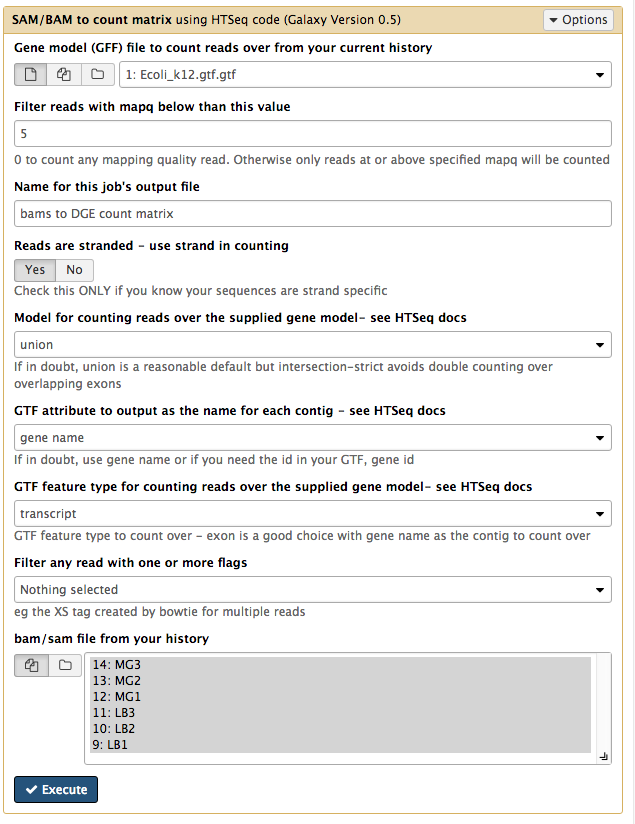
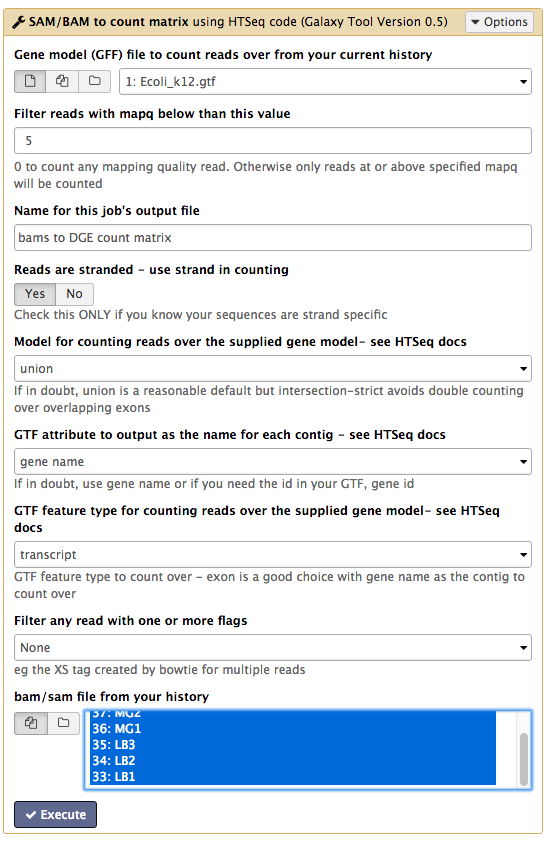
DGE changes

diff --git a/docs/modules/dge/index.md b/docs/modules/dge/index.md
@@ -23,31 +23,40 @@ At the end of this tutorial you should be able to:
 
 ## Input data: reads and reference
 
-We need RNA-Seq reads and a reference genome.
-
 **RNA-Seq reads**
 
-A typical experiment will have 2 conditions each with 3 replicates, for a total of 6 samples. Each sample will be a set of RNA sequence reads, either as one file per sample (single-end reads / SE) or two files (paired-end reads / PE).
+A typical experiment will have 2 conditions each with 3 replicates, for a total of 6 samples.
 
+- Our RNA-seq reads are from 6 samples in <fn>FASTQ</fn> format.
+    - We have single-end reads; so one file per sample.
+    - Data could also be paired-end reads, and there would be two files per sample.
+- These have been reduced to 1% of their original size for this tutorial.
+- The experiment used the bacteria *E. coli* grown in two conditions.
+    - Files labelled "LB" are the wildtype
+    - Files labelled "MG" have been exposed to 0.5% &alpha;MG - alpha methyglucoside (a sugar solution).
+
+
+
+
+
+<!--
 |             | Condition 1 | Condition 2 |
 |-------------|-------------|-------------|
 | Replicate 1 |     1       |      4      |
 | Replicate 2 |     2       |      5      |
 | Replicate 3 |     3       |      6      |
 
-Our RNA-seq reads are from 6 samples in <fn>FASTQ</fn> format. These have been reduced to 1% of their original size for this tutorial. The experiment used the bacteria *E. coli* grown in two conditions.
+-->
 
-- Files labelled "LB" are the wildtype
-- Files labelled "MG" have been exposed to 0.5% &alpha;MG - alpha methyglucoside (a sugar solution).
+
 
 
 **Reference genome**
 
-The reference genomes is in two parts: <fn>FASTA</fn> and <fn>GTF</fn> formats
+The reference genomes is in <fn>FASTA</fn> format and the gene annotations are in <fn>GTF</fn> format.
 
-The <fn>FASTA</fn> file contains the DNA sequence(s) that make up the genome; e.g. the chromosome and any plasmids.
-
-The <fn>GTF</fn> file lists the coordinates (position) of each feature. Commonly-annotated features are genes, transcripts and protein-coding sequences.
+- The <fn>FASTA</fn> file contains the DNA sequence(s) that make up the genome; e.g. the chromosome and any plasmids.
+- The <fn>GTF</fn> file lists the coordinates (position) of each feature. Commonly-annotated features are genes, transcripts and protein-coding sequences.
 
 <!--
 - Where is it and how to upload. e.g. [RNA-Seq data](/rna/data.md)
@@ -58,26 +67,31 @@ The <fn>GTF</fn> file lists the coordinates (position) of each feature. Commonly
 **Upload files to Galaxy**
 
 - Log in to your Galaxy server.
-- In the <ss>History</ss> pane, click on the cog icon, and select <ss>Import from File</ss>.
+- In the <ss>History</ss> pane, click on the cog![cog icon](images/Galaxy-cog.png)icon, and select <ss>Import from File</ss> (at the bottom of the list).
 - Under <ss>Archived History URL</ss> paste:
-<tt>https://swift.rc.nectar.org.au:8888/v1/AUTH_a3929895f9e94089ad042c9900e1ee82/Sepsis_DGE/Galaxy-History-DGE.tar.gz</tt>
-- Click <ss>View all histories</ss> and find the uploaded history. (This may take a minute. Refresh the page.)
+<tt>https://swift.rc.nectar.org.au:8888/v1/AUTH_377/public/Microbial_tutorials/Galaxy-History-BacterialDGE.tar.gz</tt>
+- In the <ss>History</ss> pane, click on the view![view icon](images/Galaxy-histories.png)icon and find the uploaded history.
+    - (This may take a minute. Refresh the page.)
 - Click <ss>Switch to</ss> that history, then <ss>Done</ss>.
 - The files should now be ready to use in your current History pane.
 
+![Files for DGE](images/image18.png)
+
+
+
 ## Align reads to reference
 
-The RNA-Seq reads are fragmented are are not complete transcripts. To determine the transcripts from which the reads originated (and therefore, to which gene they correspond) we can map them to a reference genome.
+The RNA-Seq reads are fragmented and are not complete transcripts. To determine the transcripts from which the reads originated (and therefore, to which gene they correspond) we can map them to a reference genome.
 
 In Galaxy:
 
 - Go to <ss>Tools &rarr; NGS Analysis &rarr; NGS: Mapping &rarr; Map with BWA-MEM</ss>
 - Under <ss>Will you select a reference genome from your history or use a built-in index?</ss>: *Use a genome from history and build index*
-- <ss>Use the following dataset as the reference sequence</ss>: <fn>Ecoli_k12.fna.fasta</fn>
+- <ss>Use the following dataset as the reference sequence</ss>: <fn>Ecoli_k12.fasta</fn>
 - <ss>Single or Paired-end reads</ss>: *single*
 - <ss>Select fastq dataset</ss>:
     - Click on the <ss>Multiple Datasets</ss> icon in centre
-    - Select all 6 <fn>FASTQ</fn> files (they turn blue)
+    - Select all 6 <fn>FASTQ</fn> files (they turn blue; use side-scroll bar to check all have been selected)
     - This will map each set of reads to the reference genome
 
 Your tool interface should look like this:
@@ -101,8 +115,8 @@ In Galaxy:
 
 - Go to <ss>Tools &rarr; NGS Analysis &rarr; NGS: RNA Analysis &rarr; SAM/BAM to count matrix</ss>.
     - Note: Don't select the tool called *htseq-count*. The *SAM/BAM to count matrix* also uses that tool but allows an input of multiple bam files, which is what we want.
-- For <ss>Gene model (GFF) file to count reads over from your current history</ss>, select the <fn>GTF</fn> reference genome file.
-- For <ss>Reads are stranded</ss> select *Yes*.
+- For <ss>Gene model (GFF) file to count reads over from your current history</ss>, select the <fn>GTF</fn> file.
+- For <ss>Reads are stranded</ss> select *Yes* (box turns dark grey)
 - For <ss>GTF feature type for counting reads...</ss> select *transcript*.
 - For <ss>bam/sam file from your history</ss> choose the 6 <fn>bam</fn> files.
 
@@ -116,6 +130,8 @@ Your tool interface should look like this:
 Output:
 
 - There is one output file: <fn>bams to DGE count matrix</fn>.
+- Click on the file name to expand the information in the History pane.
+- Click on the file ![File icon](images/Galaxy-download.png)icon underneath to download it to your computer for use later on in this tutorial.
 - Click on the eye icon to see this file.
 
 ![counts file](images/image09.png)
@@ -123,7 +139,6 @@ Output:
 - Each row is a gene (or feature) and each column is a sample, with counts against each gene.
 - Have a look at how the counts vary between samples, per gene.
 - We can't just compare the counts directly; they need to be normalized before comparison, and this will be done as part of the DGE analysis in the next step.
-- Click on the file icon underneath the counts file (in the history pane) to download it to your computer for use later on in this tutorial.
 
 ## DGE in Degust
 
@@ -181,27 +196,37 @@ First, look at the MDS plot.
 ![MDSplot](images/image11.png)
 
 - This is a multidimensional scaling plot which represents the variation between samples.
+- Ideally:
+    - All the LB samples would be close to each other
+    - All the MG samples would be close to each other
+    - The LB and MG groups would be far apart
 - The x-axis is the dimension with the highest magnitude. The control/treatment samples should be split along this axis.
-- Our LB samples are on the left and the MG samples are on the right, which looks correct.
+- Our LB samples are on the left and the MG samples are on the right, which means they are well separated on their major MDS dimension, which looks correct.
 
 ###Expression - MA plot
-- The average expression (over both condition and treatment samples) is represented on the x axis.
+Each dot shows the change in expression in one gene.
+
+- The average expression (over both condition and treatment samples) is represented on the x-axis.
     - Plot points should be symmetrical around the x-axis.
     - We can see that many genes are expressed at a low level, and some are highly expressed.
 - The fold change is represented on the y axis.
-    - If expression is significantly different between treatment and control, the dots are red. If not, they are blue.
+    - If expression is significantly different between treatment and control, the dots are red. If not, they are blue. (In Degust, significant means FDR <0.05).
     - At low levels of gene expression (low values of the x axis), fold changes are less likely to be significant.
+
+Click on the dot to see the gene name.     
 
 ![MAplot](images/image17.png)
 
 ###Expression - Parallel Coordinates and heatmap
+Each line shows the change in expression in one gene, between control and treatment.
+
 - Go to <ss>Options</ss> at the right.
     - For <ss>FDR cut-off</ss> set at 0.001.
-    - This is a significance level (an adjusted p value). We will set it quite low in this example.
+    - This is a significance level (an adjusted p value). We will set it quite low in this example, to ensure we only examine key differences.
 - Look at the Parallel Coordinates plot. There are two axes:
-    - Left: Gene expression in the control samples. All values are set at zero.
-    - Right: Gene expression in the treatment samples, relative to expression in the control.
-    - Each line shows the change in expression in one gene.  
+    - Left: **Control**: Gene expression in the control samples. All values are set at zero.
+    - Right: **Treatment** Gene expression in the treatment samples, relative to expression in the control.
+
 - The blocks of blue and red underneath the plot are called a heatmap.
     - Each block is a gene. Click on a block to see its line in the plot above.
     - Look at the row for the Treatment. Relative to the control, genes expressed more are red; genes expressed less are blue.
@@ -213,10 +238,10 @@ Note:
 - for an experiment with multiple treatments, the various treatment axes can be dragged to rearrange. There is no natural order (such as a time series).
 
 ###Table of genes
-- Contig: names of genes. Note that gene names are sometimes specific to a species, or they may be only named as a locus ID (a chromosomal location specified in the genome annotation).
-- FDR: False Discovery Rate. This is an adjusted p value to show the signficance of the gene expression difference. Click on column headings to sort. By default, this table is sorted by FDR.
-- Control and Treatment: log2(Fold Change) of gene expression. Control values will always be zero. Treatment values are relative to the control.
-    - Note that fold change has no absolute biological meaning. In some cases, a large fold change will be meaningful but in others, even a small fold change can be important biologically.
+- **Contig**: names of genes. Note that gene names are sometimes specific to a species, or they may be only named as a locus ID (a chromosomal location specified in the genome annotation).
+- **FDR**: False Discovery Rate. This is an adjusted p value to show the significance of the difference in gene expression between two conditions. Click on column headings to sort. By default, this table is sorted by FDR.
+- **Control** and **Treatment**: log2(Fold Change) of gene expression. The default display is of fold change in the treatment relative to the control. Therefore, values in the "Control" column are zero. This can be changed in the <ss>Options</ss> panel at the top right.
+- In some cases, a large fold change will be meaningful but in others, even a small fold change can be important biologically.
 
 Table of genes and expression:
 
@@ -256,9 +281,8 @@ View the file called <fn>DGEusingvoom.html</fn>.
 
 - Scroll down to "VOOM log output" and "#VOOM top 50".
 - The "Contig" column has the gene names.
-- Look at the "adj.P.Val" column. This is an adjusted p value to show the signficance of the gene expression difference, accounting for the effect of multiple testing. Also known as False Discovery Rate. The table is ordered by the values in this column.
-- Look at the "logFC" column. This is log2(Fold Change) of gene expression in treatment samples relative to the control samples.
-    - Note that fold change has no absolute biological meaning. In some cases, a large fold change will be meaningful but in others, even a small fold change can be important biologically.
+- Look at the "adj.P.Val" column. This is an adjusted p value to show the significance of the gene expression difference, accounting for the effect of multiple testing. Also known as False Discovery Rate. The table is ordered by the values in this column.
+- Look at the "logFC" column. This is log2(Fold Change) of relative gene expression between the treatment samples and the control samples.
 
 View the file called <fn>DEGusingvoom_topTable_VOOM.xls</fn>.
 
@@ -291,7 +315,7 @@ Next steps: Investigate the biochemical pathways involving the genes of interest
 ## More information
 
 - [Link to Degust.](https://github.com/Victorian-Bioinformatics-Consortium/degust#degust-formerly-known-as-dge-vis)
-- [Link to voom paper.]( https://genomebiology.biomedcentral.com/articles/10.1186/gb-2014-15-2-r29)
+- [Link to Voom paper.]( https://genomebiology.biomedcentral.com/articles/10.1186/gb-2014-15-2-r29)
 
 <!-- If you have already run voom within Degust, continue from there. -->
 
